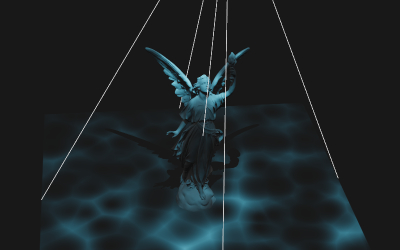
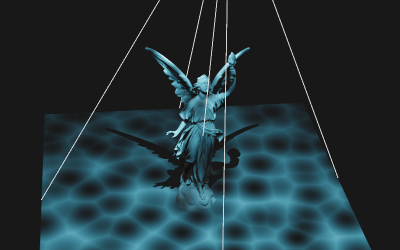
optimize for mobile

diff --git a/examples/webgpu_lights_projector.html b/examples/webgpu_lights_projector.html
@@ -83,9 +83,8 @@
 				const causticEffect = Fn( ( [ projectorUV ] ) => {
 
 					const waterLayer0 = mx_worley_noise_float( projectorUV.mul( 10 ).add( time ) );
-					const waterLayer1 = mx_worley_noise_float( projectorUV.mul( 5 ).add( time ) );
 
-					const caustic = waterLayer0.mul( waterLayer1 ).mul( color( 0x5abcd8 ) ).mul( 2 );
+					const caustic = waterLayer0.mul( color( 0x5abcd8 ) ).mul( 2 );
 
 					return caustic;
 
